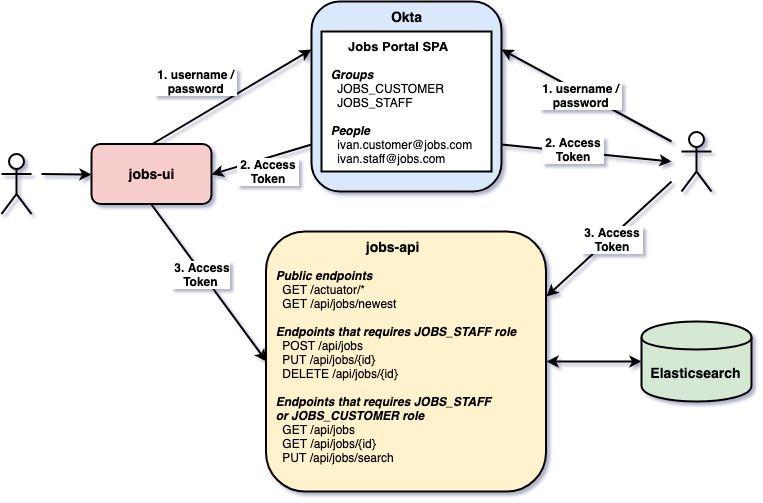
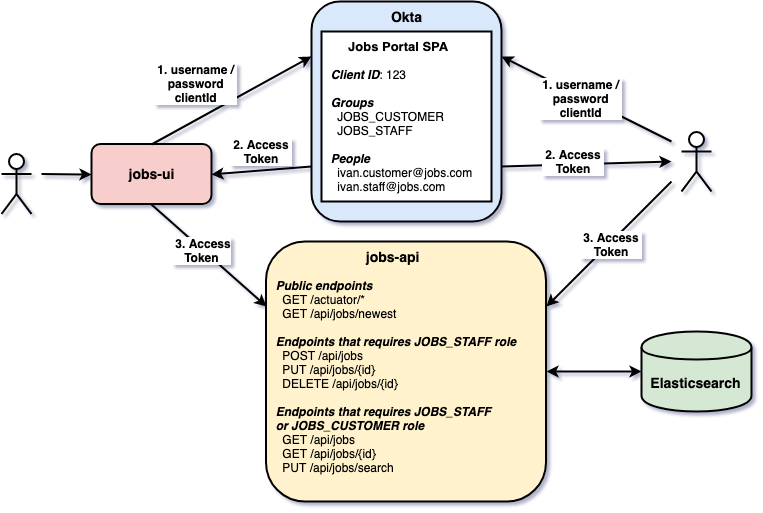
update project diagram image

diff --git a/jobs-api/src/main/java/com/mycompany/jobsapi/config/SwaggerConfig.java b/jobs-api/src/main/java/com/mycompany/jobsapi/config/SwaggerConfig.java
@@ -1,7 +1,6 @@
 package com.mycompany.jobsapi.config;
 
 import static springfox.documentation.builders.PathSelectors.regex;
-import static springfox.documentation.builders.PathSelectors.any;
 import static springfox.documentation.schema.AlternateTypeRules.newRule;
 
 import java.lang.reflect.Type;
